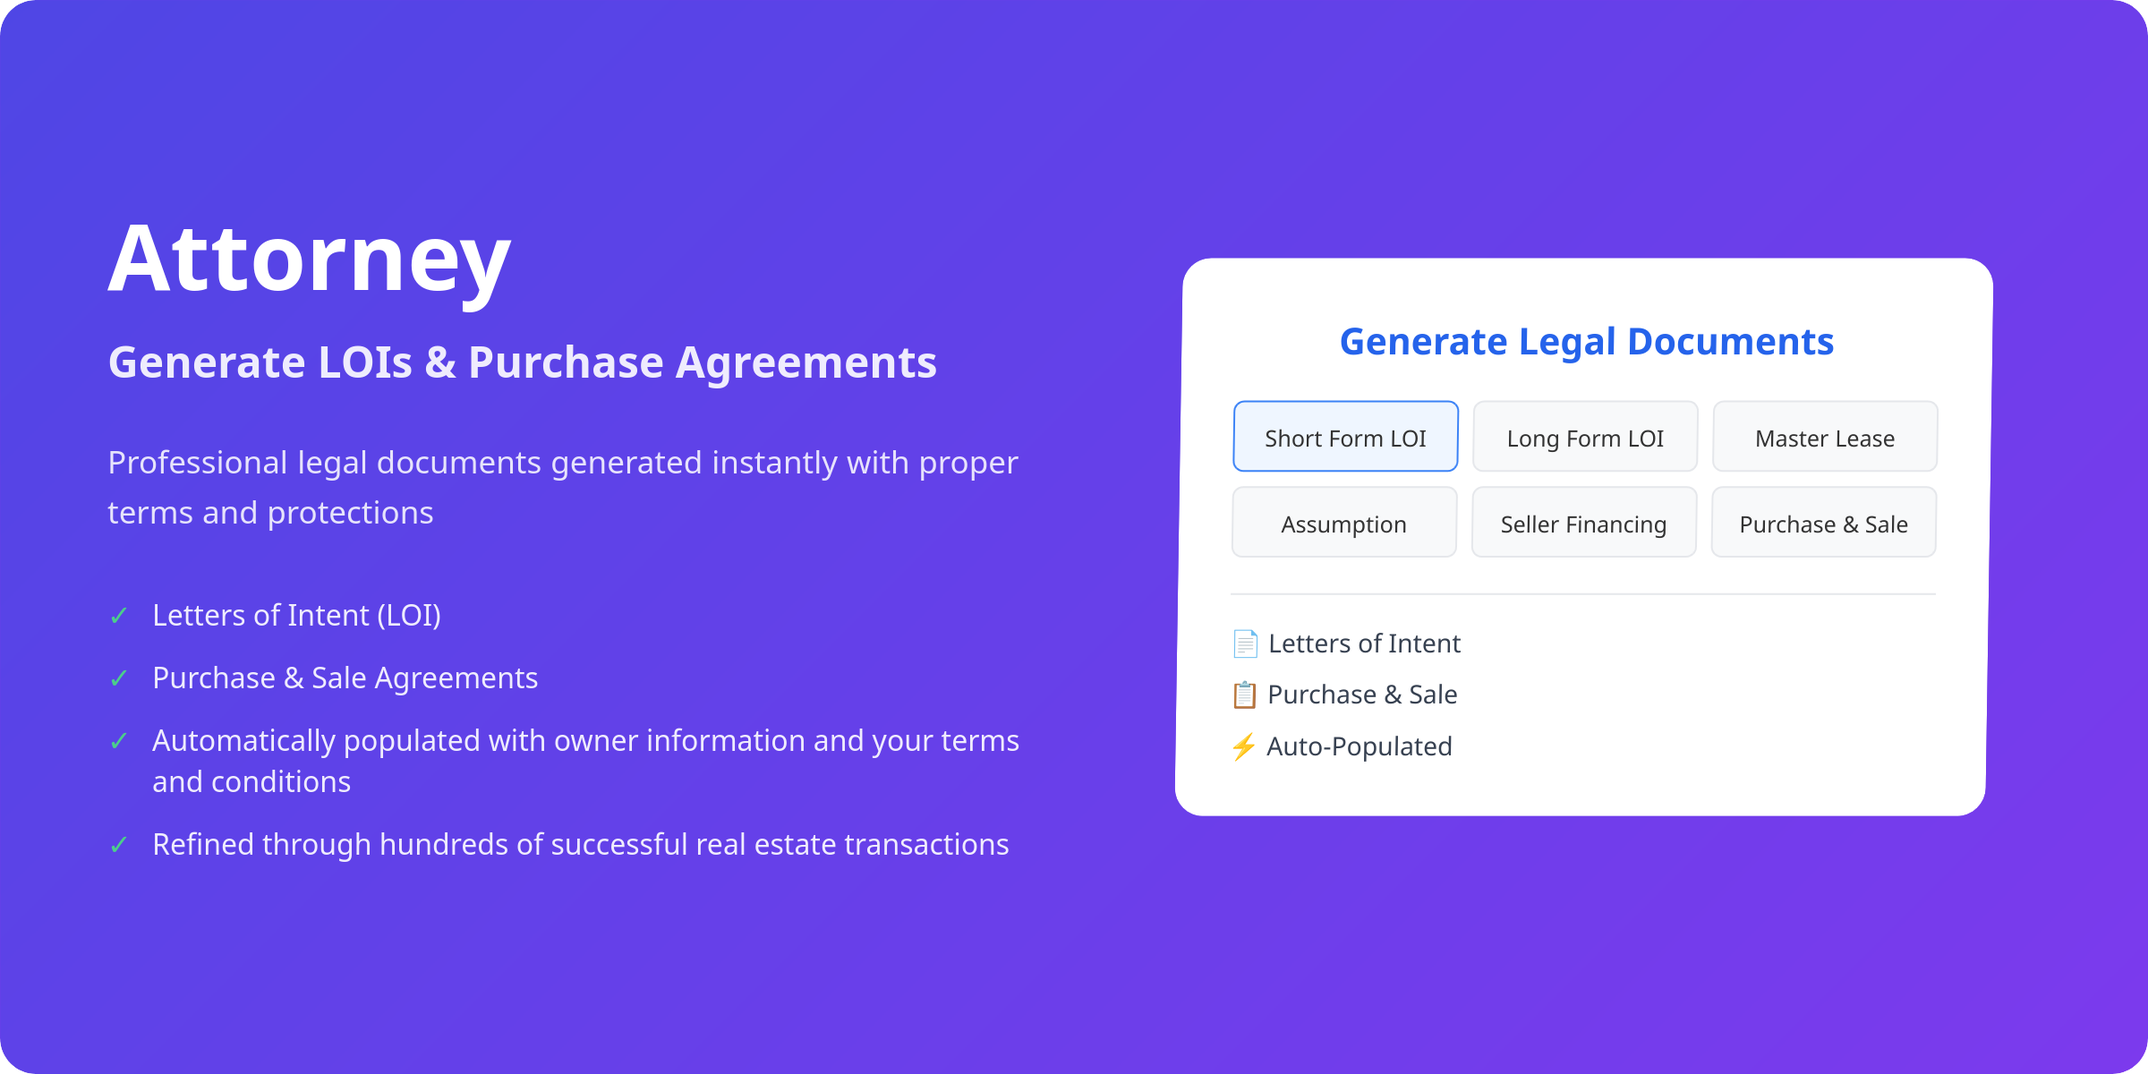
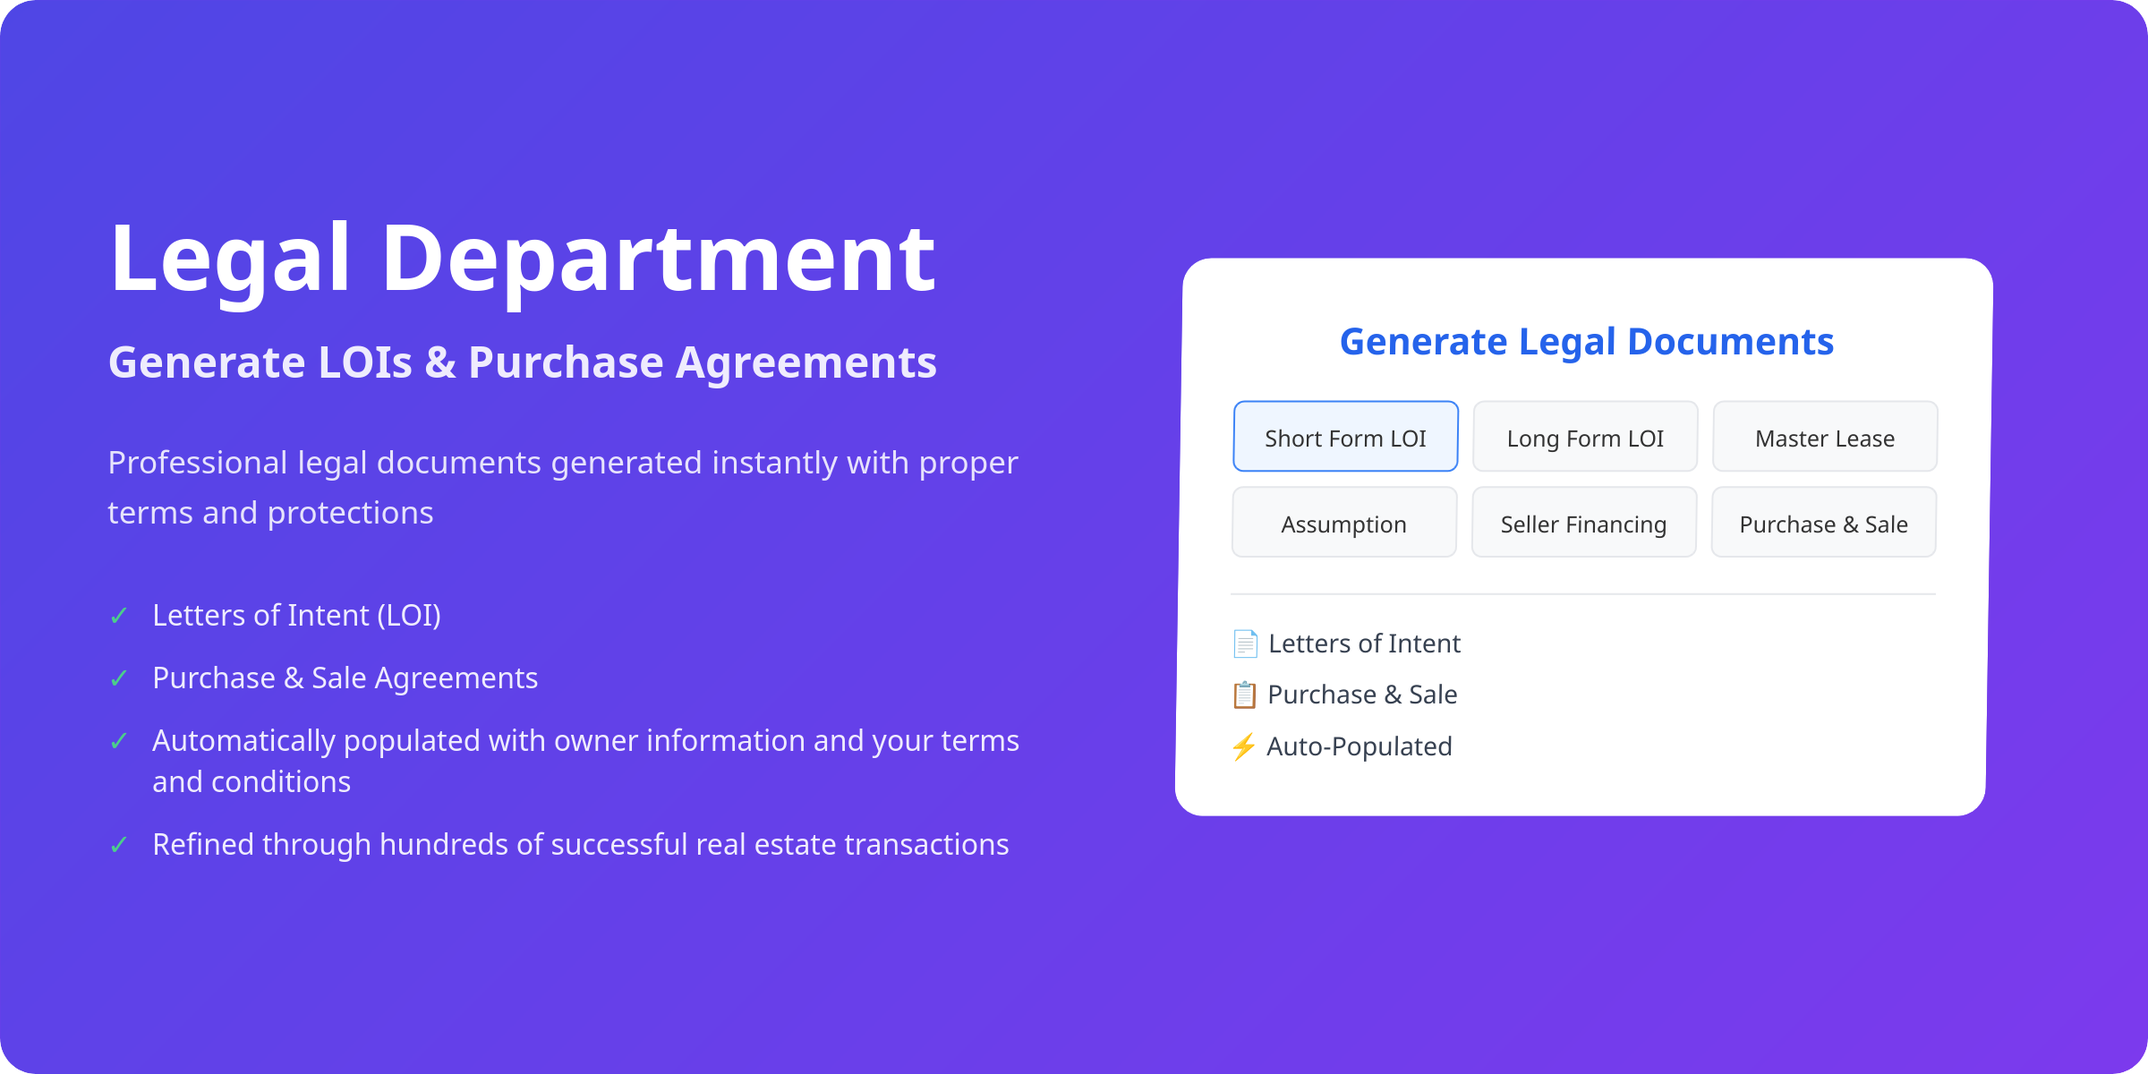
some terminology and labeling changes

Changed region(s): [[0.0312, 0.185, 0.4375, 0.3083]]

diff --git a/app/engage/page.tsx b/app/engage/page.tsx
@@ -38,7 +38,6 @@ function EngagePageContent() {
   const [showMarketDropdown, setShowMarketDropdown] = useState(false);
   const [searchQuery, setSearchQuery] = useState('');
   const [selectedProperties, setSelectedProperties] = useState<number[]>([]);
-  const [showDocumentDropdown, setShowDocumentDropdown] = useState(false);
   
   // Engagement Center dropdown states
   const [showMarketingMaterials, setShowMarketingMaterials] = useState(false);
@@ -55,7 +54,6 @@ function EngagePageContent() {
   const [selectedPropertyOffers, setSelectedPropertyOffers] = useState<any[]>([]);
   const [showCashFlowReportsModal, setShowCashFlowReportsModal] = useState(false);
   const [showDeleteModal, setShowDeleteModal] = useState(false);
-  const dropdownRef = useRef<HTMLDivElement>(null);
   const statusDropdownRef = useRef<HTMLDivElement>(null);
   const marketDropdownRef = useRef<HTMLDivElement>(null);
   const statusDropdownTimeoutRef = useRef<NodeJS.Timeout | null>(null);
@@ -1246,7 +1244,6 @@ function EngagePageContent() {
 
   const handleDocumentAction = (action: string) => {
     // Process bulk action for selected properties
-    setShowDocumentDropdown(false);
     
     // TODO: Implement document generation logic
     switch (action) {
@@ -1319,9 +1316,7 @@ function EngagePageContent() {
   // Close dropdown when clicking outside
   useEffect(() => {
     const handleClickOutside = (event: MouseEvent) => {
-      if (dropdownRef.current && !dropdownRef.current.contains(event.target as Node)) {
-        setShowDocumentDropdown(false);
-      }
+      // Old engagement center dropdown removed
       
       // Close filter dropdowns when clicking outside
       if (statusDropdownRef.current && !statusDropdownRef.current.contains(event.target as Node)) {
@@ -1393,146 +1388,7 @@ function EngagePageContent() {
 
             {/* Right side - Actions */}
             <div className="flex items-center space-x-3">
-              <div className="relative" ref={dropdownRef}>
-                <button 
-                  onClick={() => setShowDocumentDropdown(!showDocumentDropdown)}
-                  className="flex items-center px-4 py-2 bg-blue-600 hover:bg-blue-700 text-white rounded-lg font-medium transition-colors text-sm"
-                >
-                  <FileText className="h-4 w-4 mr-2" />
-                  Engagement Center ({selectedProperties.length})
-                  <ChevronDown className="h-4 w-4 ml-2" />
-                </button>
-
-                {/* Document Generation Dropdown */}
-                {showDocumentDropdown && (
-                  <div className="absolute right-0 mt-2 w-64 bg-white border border-gray-200 rounded-lg shadow-lg z-50">
-                    <div className="py-2">
-                      {/* Marketing Materials Section - Hide section header on mobile */}
-                      <div className="px-3 py-2 text-xs font-semibold text-gray-500 uppercase tracking-wider border-b border-gray-100 hidden lg:block">
-                        Marketing Materials
-                      </div>
-                      {/* Hide Marketing Letter on mobile */}
-                      <button
-                        onClick={() => handleDocumentAction('marketing-letter')}
-                        disabled={selectedProperties.length === 0}
-                        className="w-full text-left px-4 py-2 text-sm text-gray-700 hover:bg-gray-50 disabled:text-gray-400 disabled:cursor-not-allowed flex items-center hidden lg:flex"
-                      >
-                        <FileText className="h-4 w-4 mr-3" />
-                        <div>
-                          <div>Marketing Letter</div>
-                          <div className="text-xs text-gray-500">Batch multiple properties</div>
-                        </div>
-                      </button>
-                      {/* Keep Marketing Email available on mobile */}
-                      <button
-                        onClick={() => handleDocumentAction('email')}
-                        disabled={selectedProperties.length !== 1}
-                        className="w-full text-left px-4 py-2 text-sm text-gray-700 hover:bg-gray-50 disabled:text-gray-400 disabled:cursor-not-allowed flex items-center"
-                      >
-                        <svg className="h-4 w-4 mr-3" fill="none" stroke="currentColor" viewBox="0 0 24 24">
-                          <path strokeLinecap="round" strokeLinejoin="round" strokeWidth={2} d="M3 8l7.89 4.26a2 2 0 002.22 0L21 8M5 19h14a2 2 0 002-2V7a2 2 0 00-2-2H5a2 2 0 00-2 2v10a2 2 0 002 2z" />
-                        </svg>
-                        <div>
-                          <div>Marketing Email</div>
-                          <div className="text-xs text-gray-500">Select 1 property</div>
-                        </div>
-                      </button>
-
-                      {/* Legal Documents Section - Hide on mobile */}
-                      <div className="px-3 py-2 text-xs font-semibold text-gray-500 uppercase tracking-wider border-b border-gray-100 mt-2 hidden lg:block">
-                        Legal Documents
-                      </div>
-                      {/* Hide Letters of Intent on mobile */}
-                      <button
-                        onClick={() => handleDocumentAction('loi')}
-                        disabled={selectedProperties.length !== 1}
-                        className="w-full text-left px-4 py-2 text-sm text-gray-700 hover:bg-gray-50 disabled:text-gray-400 disabled:cursor-not-allowed flex items-center hidden lg:flex"
-                      >
-                        <FileText className="h-4 w-4 mr-3" />
-                        <div>
-                          <div>Letters of Intent</div>
-                          <div className="text-xs text-gray-500">Select 1 property</div>
-                        </div>
-                      </button>
-
-                      {/* Hide Purchase & Sale on mobile */}
-                      <button
-                        onClick={() => handleDocumentAction('purchase-sale')}
-                        disabled={selectedProperties.length !== 1}
-                        className="w-full text-left px-4 py-2 text-sm text-gray-700 hover:bg-gray-50 disabled:text-gray-400 disabled:cursor-not-allowed flex items-center hidden lg:flex"
-                      >
-                        <FileText className="h-4 w-4 mr-3" />
-                        <div>
-                          <div>Purchase & Sale</div>
-                          <div className="text-xs text-gray-500">Select 1 property</div>
-                        </div>
-                      </button>
-
-                      {/* Financials Section - Hide on mobile */}
-                      <div className="px-3 py-2 text-xs font-semibold text-gray-500 uppercase tracking-wider border-b border-gray-100 mt-2 hidden lg:block">
-                        Financials
-                      </div>
-                      {/* Hide Create Offer on mobile */}
-                      <button
-                        onClick={() => handleDocumentAction('create-offer')}
-                        disabled={selectedProperties.length !== 1}
-                        className="w-full text-left px-4 py-2 text-sm text-gray-700 hover:bg-gray-50 disabled:text-gray-400 disabled:cursor-not-allowed flex items-center hidden lg:flex"
-                      >
-                        <svg className="h-4 w-4 mr-3" fill="none" stroke="currentColor" viewBox="0 0 24 24">
-                          <path strokeLinecap="round" strokeLinejoin="round" strokeWidth={2} d="M9 7h6m0 10v-3m-3 3h.01M9 17h.01M9 14h.01M12 14h.01M15 11h.01M12 11h.01M9 11h.01M7 21h10a2 2 0 002-2V5a2 2 0 00-2-2H7a2 2 0 00-2 2v14a2 2 0 002 2z" />
-                        </svg>
-                        <div>
-                          <div>Create Analysis</div>
-                          <div className="text-xs text-gray-500">Select 1 property</div>
-                        </div>
-                      </button>
-                      
-                      {/* Hide View Offers on mobile */}
-                      <button
-                        onClick={() => handleDocumentAction('view-offers')}
-                        className="w-full text-left px-4 py-2 text-sm text-gray-700 hover:bg-gray-50 flex items-center hidden lg:flex"
-                      >
-                        <svg className="h-4 w-4 mr-3" fill="none" stroke="currentColor" viewBox="0 0 24 24">
-                          <path strokeLinecap="round" strokeLinejoin="round" strokeWidth={2} d="M9 5H7a2 2 0 00-2 2v10a2 2 0 002 2h8a2 2 0 002-2V7a2 2 0 00-2-2h-2M9 5a2 2 0 002 2h2a2 2 0 002-2M9 5a2 2 0 012-2h2a2 2 0 012 2m-3 7h3m-3 4h3m-6-4h.01M9 16h.01" />
-                        </svg>
-                        <div>
-                          <div>View Analyses</div>
-                          <div className="text-xs text-gray-500">View all your analyses</div>
-                        </div>
-                      </button>
-                      
-                      {/* Hide Cash Flow Report on mobile */}
-                      <button
-                        onClick={() => handleDocumentAction('cash-flow-report')}
-                        className="w-full text-left px-4 py-2 text-sm text-gray-700 hover:bg-gray-50 flex items-center hidden lg:flex"
-                      >
-                        <svg className="h-4 w-4 mr-3" fill="none" stroke="currentColor" viewBox="0 0 24 24">
-                          <path strokeLinecap="round" strokeLinejoin="round" strokeWidth={2} d="M9 17v-2m3 2v-4m3 4v-6m2 10H7a4 4 0 01-4-4V5a4 4 0 014-4h5.586a1 1 0 01.707.293l5.414 5.414a1 1 0 01.293.707V19a4 4 0 01-4 4z" />
-                        </svg>
-                        <div>
-                          <div>Cash Flow Report</div>
-                          <div className="text-xs text-gray-500">Select 1 property</div>
-                        </div>
-                      </button>
-
-                      {/* Hide divider on mobile */}
-                      <div className="border-t border-gray-200 my-2 hidden lg:block"></div>
-                      
-                      {/* Hide CSV Download on mobile */}
-                      <button
-                        onClick={() => handleDocumentAction('csv')}
-                        className="w-full text-left px-4 py-2 text-sm text-gray-700 hover:bg-gray-50 flex items-center hidden lg:flex"
-                      >
-                        <FileText className="h-4 w-4 mr-3" />
-                        <div>
-                          <div>CSV Download</div>
-                          <div className="text-xs text-gray-500">Export filtered results</div>
-                        </div>
-                      </button>
-                    </div>
-                  </div>
-                )}
-              </div>
+              {/* Old engagement center button removed */}
             </div>
           </div>
         </div>

diff --git a/public/carousel-generator-mfos.html b/public/carousel-generator-mfos.html
@@ -186,7 +186,7 @@
             margin-bottom: 10px;
         }
 
-        /* Slide 3 - MBA Analyst */
+        /* Slide 3 - Underwriting Manager */
         .slide3 {
             background: linear-gradient(135deg, #1e40af 0%, #6366f1 100%);
         }
@@ -232,7 +232,7 @@
             margin-top: 4px;
         }
 
-        /* Slide 4 - Attorney */
+        /* Slide 4 - Legal Department */
         .slide4 {
             background: linear-gradient(135deg, #4f46e5 0%, #7c3aed 100%);
         }
@@ -271,7 +271,7 @@
             background: #eff6ff;
         }
 
-        /* Slide 5 - Financing Advisor */
+        /* Slide 5 - Investor Relations Specialist */
         .slide5 {
             background: linear-gradient(135deg, #2563eb 0%, #1e40af 100%);
         }
@@ -435,11 +435,11 @@
             </div>
         </div>
 
-        <!-- Slide 3: MBA Analyst -->
+        <!-- Slide 3: Underwriting Manager -->
         <div class="slide slide3" id="slide3">
             <div class="slide-content">
                 <div class="slide-text">
-                    <div class="slide-title">MBA Analyst</div>
+                    <div class="slide-title">Underwriting Manager</div>
                     <div class="slide-subtitle">Model Offers & Financial Statements</div>
                     <div class="slide-description">Sophisticated financial modeling and investment analysis at your fingertips</div>
                     <ul class="feature-list">
@@ -479,11 +479,11 @@
             </div>
         </div>
 
-        <!-- Slide 4: Attorney -->
+        <!-- Slide 4: Legal Department -->
         <div class="slide slide4" id="slide4">
             <div class="slide-content">
                 <div class="slide-text">
-                    <div class="slide-title">Attorney</div>
+                    <div class="slide-title">Legal Department</div>
                     <div class="slide-subtitle">Generate LOIs & Purchase Agreements</div>
                     <div class="slide-description">Professional legal documents generated instantly with proper terms and protections</div>
                     <ul class="feature-list">
@@ -514,11 +514,11 @@
             </div>
         </div>
 
-        <!-- Slide 5: Financing Advisor -->
+        <!-- Slide 5: Investor Relations Specialist -->
         <div class="slide slide5" id="slide5">
             <div class="slide-content">
                 <div class="slide-text">
-                    <div class="slide-title">Financing Advisor</div>
+                    <div class="slide-title">Investor Relations Specialist</div>
                     <div class="slide-subtitle">Capital Club for Property Investment</div>
                     <div class="slide-description">Collaborate with members of the MultifamilyOS Community to fund your acquisitions</div>
                     <ul class="feature-list">
@@ -562,9 +562,9 @@
         <h2>Download Individual Slides as PNG</h2>
         <button class="download-btn" onclick="downloadSlide('slide1', 'acquisitions-director')">Download Acquisitions Director</button>
         <button class="download-btn" onclick="downloadSlide('slide2', 'marketing-assistant')">Download Marketing Assistant</button>
-        <button class="download-btn" onclick="downloadSlide('slide3', 'mba-analyst')">Download MBA Analyst</button>
-        <button class="download-btn" onclick="downloadSlide('slide4', 'attorney')">Download Attorney</button>
-        <button class="download-btn" onclick="downloadSlide('slide5', 'financing-advisor')">Download Financing Advisor</button>
+        <button class="download-btn" onclick="downloadSlide('slide3', 'underwriting-manager')">Download Underwriting Manager</button>
+        <button class="download-btn" onclick="downloadSlide('slide4', 'legal-department')">Download Legal Department</button>
+        <button class="download-btn" onclick="downloadSlide('slide5', 'investor-relations-specialist')">Download Investor Relations Specialist</button>
     </div>
 
     <script src="https://cdnjs.cloudflare.com/ajax/libs/html2canvas/1.4.1/html2canvas.min.js"></script>
@@ -597,9 +597,9 @@
             const slides = [
                 {id: 'slide1', name: 'acquisitions-director'},
                 {id: 'slide2', name: 'marketing-assistant'},
-                {id: 'slide3', name: 'mba-analyst'},
-                {id: 'slide4', name: 'attorney'},
-                {id: 'slide5', name: 'financing-advisor'}
+                {id: 'slide3', name: 'underwriting-manager'},
+                {id: 'slide4', name: 'legal-department'},
+                {id: 'slide5', name: 'investor-relations-specialist'}
             ];
 
             for (let i = 0; i < slides.length; i++) {

diff --git a/app/pricing/page.tsx b/app/pricing/page.tsx
@@ -355,9 +355,9 @@ export default function PricingPage() {
           <ul className="text-sm space-y-1 text-gray-800 mb-4 flex flex-col">
             <li className="flex items-start"><span className="w-2 h-2 bg-blue-600 rounded-full mt-2 mr-3 flex-shrink-0"></span>Acquisitions Director — Scout off-market opportunities</li>
             <li className="flex items-start"><span className="w-2 h-2 bg-blue-600 rounded-full mt-2 mr-3 flex-shrink-0"></span>Marketing Assistant — Create letters and emails</li>
-            <li className="flex items-start"><span className="w-2 h-2 bg-blue-600 rounded-full mt-2 mr-3 flex-shrink-0"></span>MBA Analyst — Model offers and generate financial statements</li>
-            <li className="flex items-start"><span className="w-2 h-2 bg-blue-600 rounded-full mt-2 mr-3 flex-shrink-0"></span>Attorney — Generate LOIs and Purchase & Sale Agreements</li>
-            <li className="flex items-start"><span className="w-2 h-2 bg-blue-600 rounded-full mt-2 mr-3 flex-shrink-0"></span>Financing Advisor — Identify banks and S&L's</li>
+            <li className="flex items-start"><span className="w-2 h-2 bg-blue-600 rounded-full mt-2 mr-3 flex-shrink-0"></span>Underwriting Manager — Model offers and generate financial statements</li>
+            <li className="flex items-start"><span className="w-2 h-2 bg-blue-600 rounded-full mt-2 mr-3 flex-shrink-0"></span>Legal Department — Generate LOIs and Purchase & Sale Agreements</li>
+            <li className="flex items-start"><span className="w-2 h-2 bg-blue-600 rounded-full mt-2 mr-3 flex-shrink-0"></span>Investor Relations Specialist — Identify banks and S&L's</li>
           </ul>
           <button
             onClick={() => handleCheckout(isAnnual ? PLUS_ANNUAL : PLUS_MONTHLY, isAnnual ? "annual" : "monthly")}
@@ -630,7 +630,7 @@ export default function PricingPage() {
             </div>
 
             <div className="grid grid-cols-5 gap-0 hover:bg-gray-50/50 transition-colors">
-              <div className="px-6 py-4 text-sm font-medium text-gray-900">MBA Analyst — Model offers and generate financial statements</div>
+              <div className="px-6 py-4 text-sm font-medium text-gray-900">Underwriting Manager — Model offers and generate financial statements</div>
               <div className="px-6 py-4 text-center border-l border-gray-100">
                 <div className="w-5 h-5 rounded-full bg-gray-200 mx-auto flex items-center justify-center">
                   <div className="w-2 h-0.5 bg-gray-400"></div>
@@ -660,7 +660,7 @@ export default function PricingPage() {
             </div>
 
             <div className="grid grid-cols-5 gap-0 hover:bg-gray-50/50 transition-colors">
-              <div className="px-6 py-4 text-sm font-medium text-gray-900">Attorney — Generate LOIs and Purchase & Sale Agreements</div>
+              <div className="px-6 py-4 text-sm font-medium text-gray-900">Legal Department — Generate LOIs and Purchase & Sale Agreements</div>
               <div className="px-6 py-4 text-center border-l border-gray-100">
                 <div className="w-5 h-5 rounded-full bg-gray-200 mx-auto flex items-center justify-center">
                   <div className="w-2 h-0.5 bg-gray-400"></div>
@@ -690,7 +690,7 @@ export default function PricingPage() {
             </div>
 
             <div className="grid grid-cols-5 gap-0 hover:bg-gray-50/50 transition-colors">
-              <div className="px-6 py-4 text-sm font-medium text-gray-900">Financing Advisor — Identify banks and S&L's</div>
+              <div className="px-6 py-4 text-sm font-medium text-gray-900">Investor Relations Specialist — Identify banks and S&L's</div>
               <div className="px-6 py-4 text-center border-l border-gray-100">
                 <div className="w-5 h-5 rounded-full bg-gray-200 mx-auto flex items-center justify-center">
                   <div className="w-2 h-0.5 bg-gray-400"></div>
@@ -1338,7 +1338,7 @@ export default function PricingPage() {
               <ul className="list-disc pl-6 space-y-1">
                 <li>Acquisitions Director → Off-market property scouting</li>
                 <li>Analyst → Financial modeling and scenario testing</li>
-                <li>Attorney → Drafting LOIs and contracts</li>
+                <li>Legal Department → Drafting LOIs and contracts</li>
                 <li>Marketing assistant → Outreach campaigns and letters</li>
                 <li>Financing advisor → Lender and capital source recommendations</li>
               </ul>
